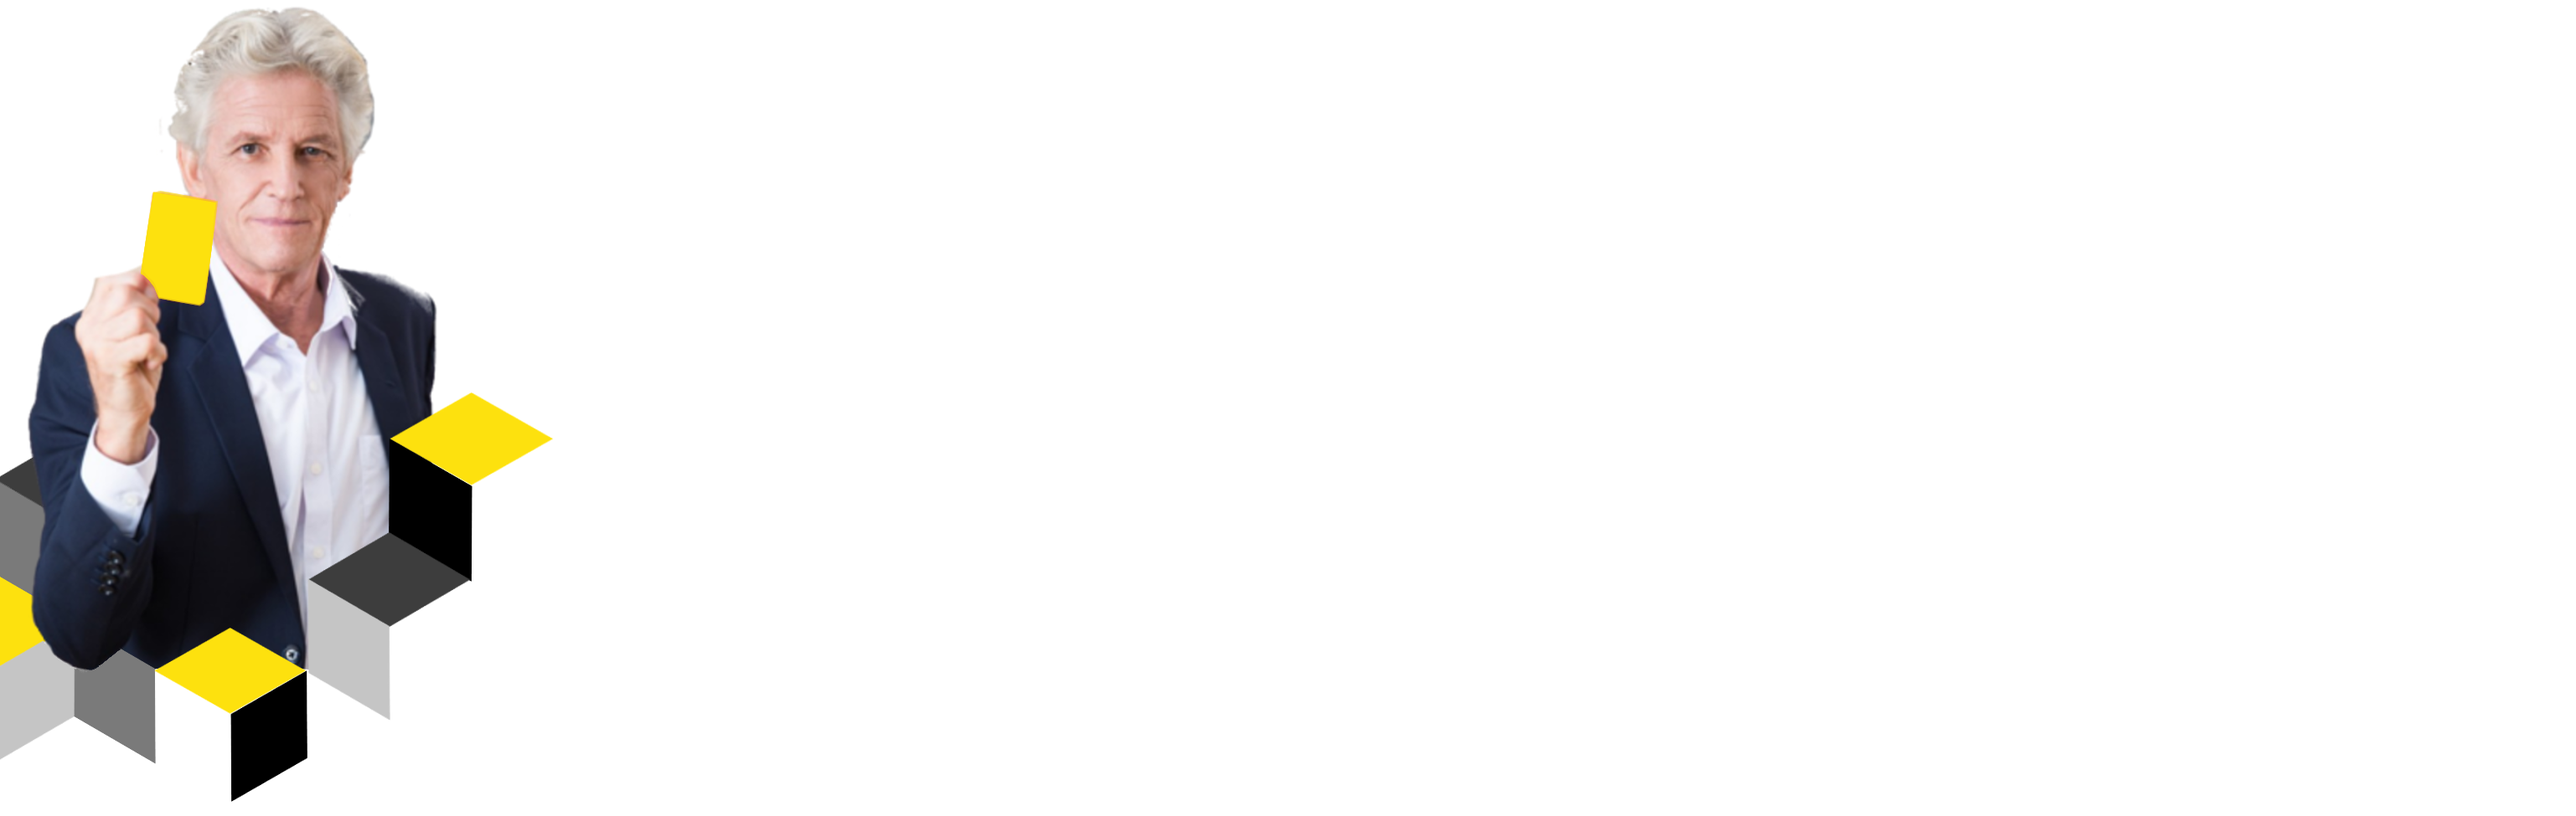
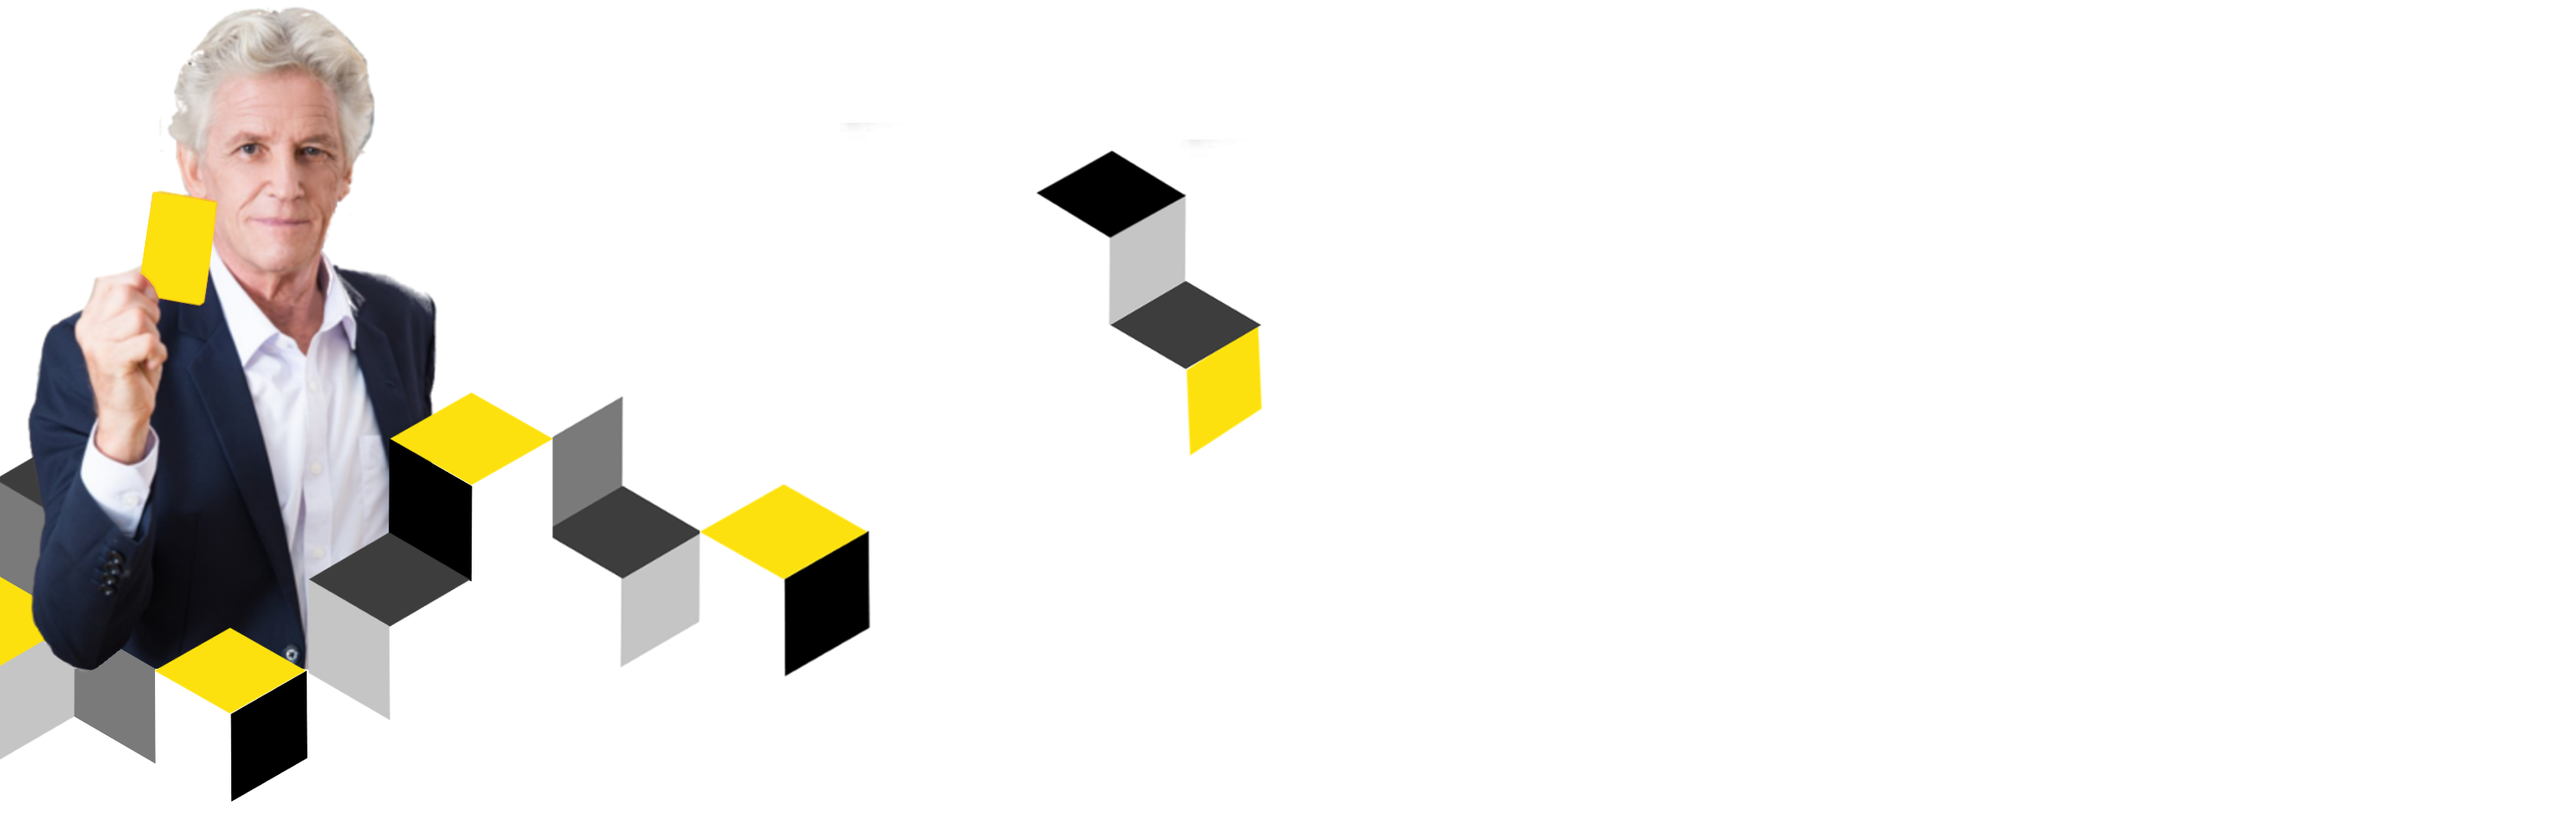
versão 29.1
bacenjud

Changed region(s): [[0.1873, 0.4923, 0.3434, 0.8308], [0.4059, 0.1846, 0.4995, 0.5538]]

diff --git a/WebContent/pdBacenJud.html b/WebContent/pdBacenJud.html
@@ -330,13 +330,45 @@ consequência, dos processos</p>
 		</div>
 	</div>
 	
-	<div class="widnr valueprop left"
-		style="background-image: url(./images/gerenciamento.png);">
+	
+    <div class="widnr valueprop left"
+		style="background-image: url(./images/src6jud.jpg);">
 		<div class="container">
 			<div class="row-fluid flex-row">
 				<div class="span4 text-hero ">
-					<h2>Economia</h2>
-					<p>Economia, porque diminui o custo de processamento das ordens e solicitações judiciais tanto no âmbito do Judiciário, quanto no Banco Central e nas instituições financeiras, e mais a redução do prejuízo das partes com a manutenção por longo tempo dos recursos parados.</p>
+					<h2>Características do sistema</h2>
+					<p>•	Automatização total do processo de execução das ordens judiciais; </p>
+                    <p>•	Rastreabilidade e visualização das etapas de cada ordem;</p>
+                    <p>•	Integração com sistemas legados e automação;</p>
+                    <p>•	Relatórios e consultas de monitoração e controle.</p>
+				</div>
+			</div>
+		</div>
+	</div>
+    <div class="widnr valueprop right"
+		style="background-image: url(./images/src5jud.jpg); padding-bottom:0px;">
+		<div class="container">
+			<div class="row-fluid flex-row">
+				<div class="span4 text-hero offset8">
+					<h2>Principais funções</h2>
+					<p>•	Importação automática do arquivo disponibilizado pelo BacenJud;</p>
+                    <p>•	Processamento e distribuição das ordens de acordo com suas características;</p>
+                    <p>•	Gestão centralizada da situação de execução de cada ordem. Permitindo a Cooperativa ter uma visão geral de todas as demandas judiciais executadas;</p>
+                    <p>•	Rastreabilidade por código da ordem, permitindo a visão de todas as etapas;</p>
+                    <p>•	Consolidação das respostas dos sistemas e envio do arquivo resposta;</p>
+                    <p>•	Gravação de Logs de auditoria.</p>
+				</div>
+			</div>
+		</div>
+	</div>
+    <div class="widnr valueprop left"
+		style="background-image: url(./images/beneficiosjud.png);">
+		<div class="container">
+			<div class="row-fluid flex-row">
+				<div class="span4 text-hero ">
+					<h2>Benefícios</h2>
+					<p>A nova versão possui a mesma confiabilidade e segurança da versão do Sisjud para Bancos.</p>
+                    <p>E seus benefícios vão além disso, como pode ver...<br /><br /><br /><br /><br /><br /></p>
 				</div>
 			</div>
 		</div>
@@ -355,29 +387,40 @@ consequência, dos processos</p>
 			</div>
 		</div>
 	</div>
+    
     <div class="widnr valueprop left"
-		style="background-image: url(./images/gar2.png);">
+		style="background-image: url(./images/gerenciamento.png);">
 		<div class="container">
 			<div class="row-fluid flex-row">
 				<div class="span4 text-hero ">
+					<h2>Economia</h2>
+					<p>Economia, porque diminui o custo de processamento das ordens e solicitações judiciais tanto no âmbito do Judiciário, quanto no Banco Central e nas instituições financeiras, e mais a redução do prejuízo das partes com a manutenção por longo tempo dos recursos parados.</p>
+				</div>
+			</div>
+		</div>
+	</div>
+    <div class="widnr valueprop right"
+		style="background-image: url(./images/gar21.jpg);">
+		<div class="container">
+			<div class="row-fluid flex-row">
+				<div class="span4 text-hero offset8">
 					<h2>Controle </h2>
 					<p>Controle, porque permite ao Judiciário o acompanhamento das respostas às ordens e solicitações emitidas.</p>
 				</div>
 			</div>
 		</div>
 	</div>
-	<div class="widnr valueprop right"
-		style="background-image: url(./images/motivacao.jpg); padding-bottom:0px;">
+	<div class="widnr valueprop left"
+		style="background-image: url(./images/motivacao1.jpg); padding-bottom:0px;">
 		<div class="container">
 			<div class="row-fluid flex-row">
-				<div class="span4 text-hero offset8">
+				<div class="span4 text-hero ">
 					<h2>Agilidade</h2>
 					<p>Agilidade, porque as ordens são transmitidas eletronicamente e têm suas respostas visíveis para o juízo emissor na manhã do segundo dia útil após seu recebimento pelas instituições.</p>
 				</div>
 			</div>
 		</div>
 	</div>
-
 
 </article>
 
